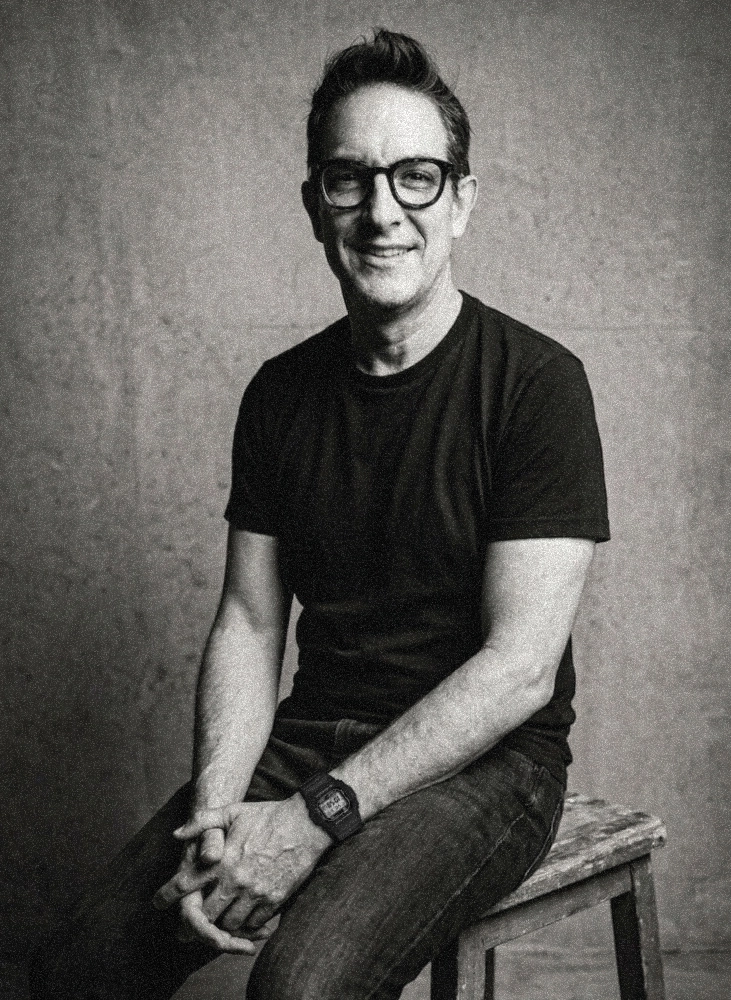
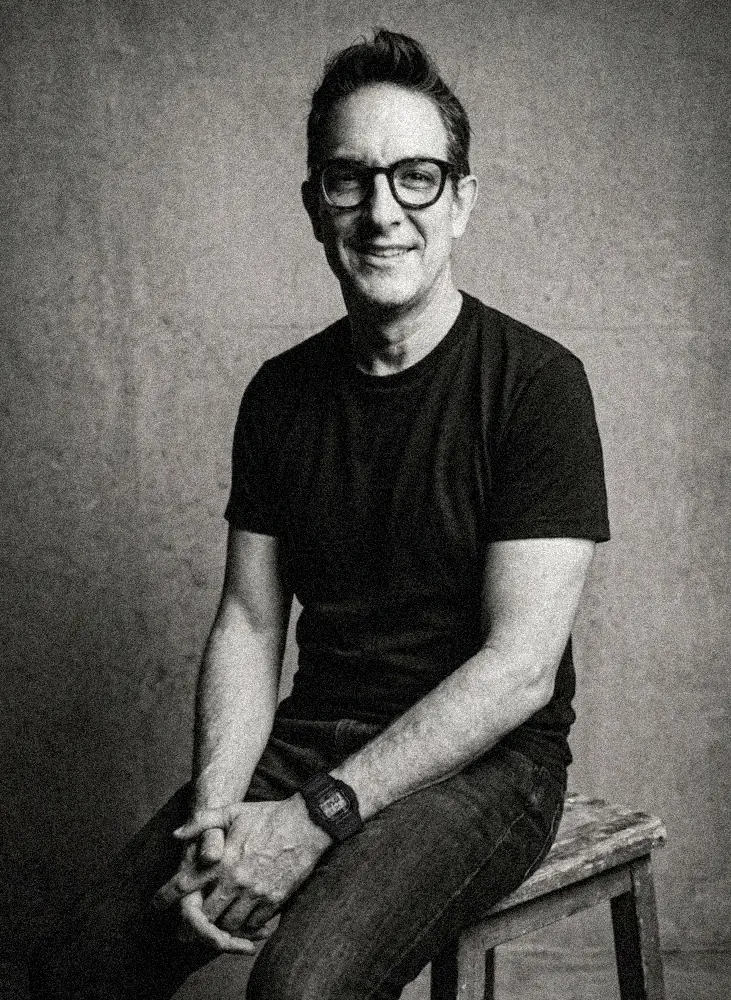
fix: defensive blog.js + compress portrait (757KB → 182KB)
Two unrelated production fixes pulled into one commit because both came
from the original SEO audit follow-up:

1) blog/blog.js — defensive against non-array API responses
   The list endpoint /api/posts is supposed to return an array, but on any
   error path (D1 hiccup, transient failure) it returns a 500 with
   {error: "..."}. The old code blindly passed that through, which made
   `posts.map(...)` blow up later with "TypeError: posts.map is not a function".
   Fix:
   - Check response.ok before parsing
   - Validate Array.isArray() before storing window._blogPosts
   - Show empty state ("Próximamente nuevos artículos.") instead of empty grid
   - Same guard in loadMore()

2) images/Carlos_Luque_Ancona_2026-Retrato.webp — recompressed
   Original: 757KB at 731×1000px (overweight for a portrait that renders at
   436×546px on a typical viewport). Recompressed at WebP quality 75 via
   Pillow, keeping the same dimensions. Result: 182KB (76% reduction) with
   no visible quality loss at the rendered size.

diff --git a/blog/blog.js b/blog/blog.js
@@ -16,12 +16,21 @@ async function initBlog() {
 
   try {
     const response = await fetch(`${BLOG_DATA_URL}?page=1&per=${INITIAL_LOAD}`);
+    if (!response.ok) {
+      throw new Error('API responded with status ' + response.status);
+    }
     const firstBatch = await response.json();
+
+    // Defensive: the list endpoint should always return an array. If the API
+    // returned an error object (or anything else), fall back to an empty list
+    // instead of letting `.map()` blow up later.
+    const posts = Array.isArray(firstBatch) ? firstBatch : [];
+
     // hasMore solo es true si llegamos al límite inicial (50+)
-    hasMore = firstBatch.length === INITIAL_LOAD;
+    hasMore = posts.length === INITIAL_LOAD;
 
     // Seed global posts array for list view
-    window._blogPosts = firstBatch;
+    window._blogPosts = posts;
     currentPage = 1;
 
     // Simple router based on pathname
@@ -32,7 +41,9 @@ async function initBlog() {
 
   } catch (error) {
     console.error('Error loading blog data:', error);
-    root.innerHTML = `<div class="section-inner" style="padding: 100px 0; text-align: center;">Error al cargar el blog.</div>`;
+    if (root) {
+      root.innerHTML = `<div class="section-inner" style="padding: 100px 0; text-align: center;">Error al cargar el blog.</div>`;
+    }
   }
 }
 
@@ -79,9 +90,11 @@ function postCardHtml(post) {
 
 function renderList() {
   const root = document.getElementById('blog-root');
-  const posts = window._blogPosts || [];
+  const posts = Array.isArray(window._blogPosts) ? window._blogPosts : [];
 
-  let cardsHtml = posts.map(postCardHtml).join('');
+  const cardsHtml = posts.length
+    ? posts.map(postCardHtml).join('')
+    : '<p style="grid-column: 1 / -1; text-align: center; padding: 60px 0; color: rgba(255,255,255,.6);">Próximamente nuevos artículos.</p>';
 
   root.innerHTML = `
     <header class="blog-hero">
@@ -114,7 +127,9 @@ async function loadMore() {
   try {
     const nextPage = currentPage + 1;
     const response = await fetch(`${BLOG_DATA_URL}?page=${nextPage}&per=${INITIAL_LOAD}`);
-    const newPosts = await response.json();
+    if (!response.ok) throw new Error('API responded with status ' + response.status);
+    const raw = await response.json();
+    const newPosts = Array.isArray(raw) ? raw : [];
 
     currentPage = nextPage;
     hasMore = newPosts.length === INITIAL_LOAD;
